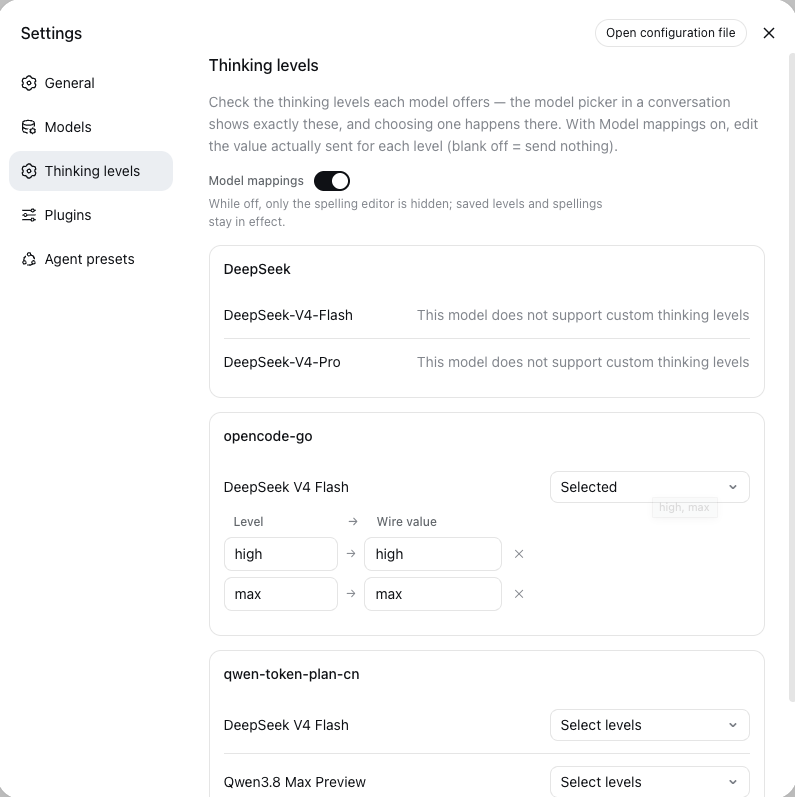
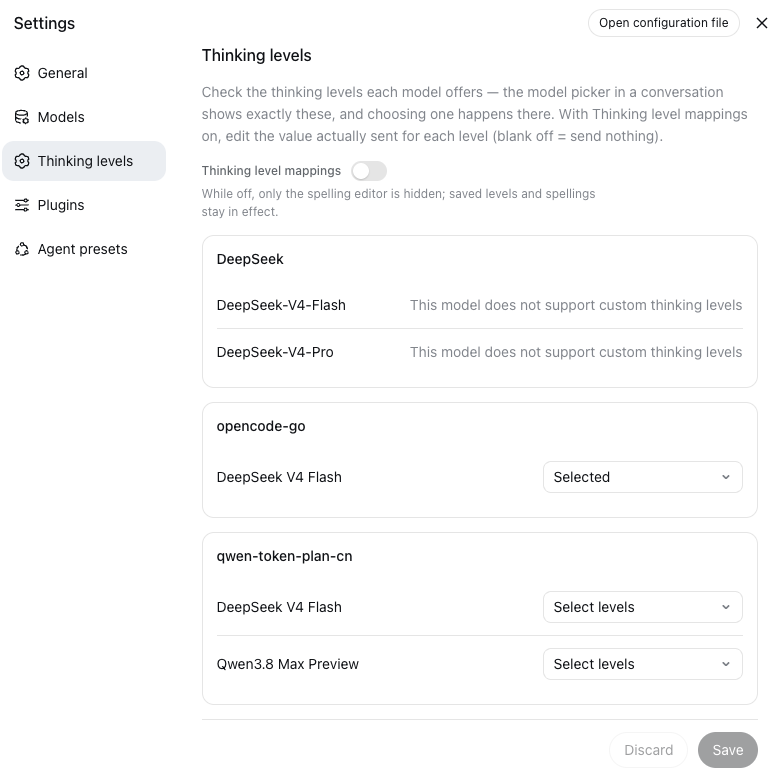
docs: placeholder screenshot for the settings page

diff --git a/README.md b/README.md
@@ -83,7 +83,6 @@ After installing, restart the Web app; the **Thinking levels** entry appears in 
 
 ## Web settings page
 
-![Thinking levels settings page](assets/settings-en.png)
 ![Thinking levels settings page](assets/settings-en-full.png)
 
 The package ships a browser half (`dsh.client` declaration, `./client` entry) that renders a **Thinking levels** entry in the Web Settings nav, directly below **Models**.

diff --git a/README.zh.md b/README.zh.md
@@ -83,7 +83,6 @@ allowBuilds:
 
 ## Web 设置页面
 
-![思考等级设置页](assets/settings.png)
 ![思考等级设置页](assets/settings-full.png)
 
 本包同时提供浏览器端（`dsh.client` 声明 + `./client` 入口），在 Web 设置导航的 **"模型"** 正下方渲染 **"思考等级"** 条目。
